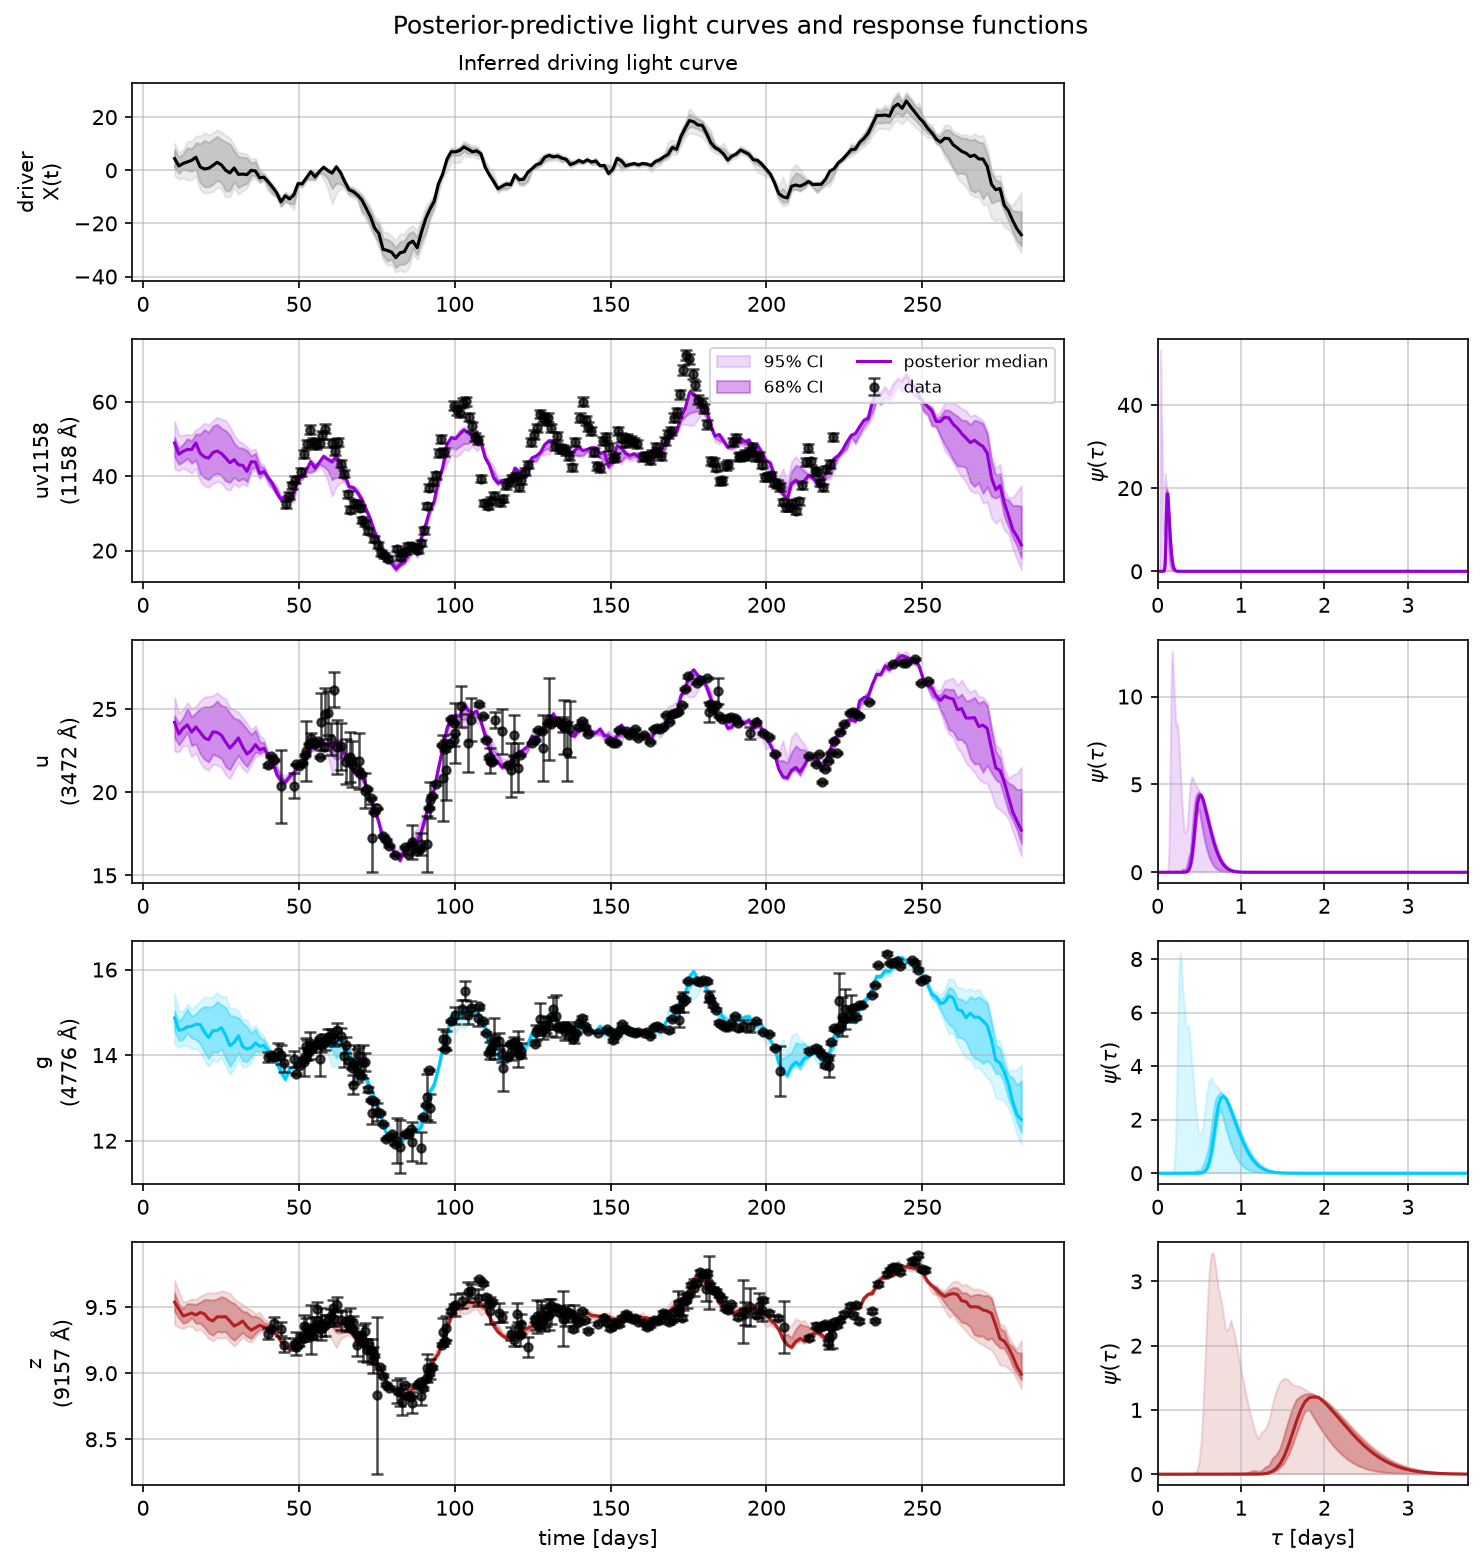
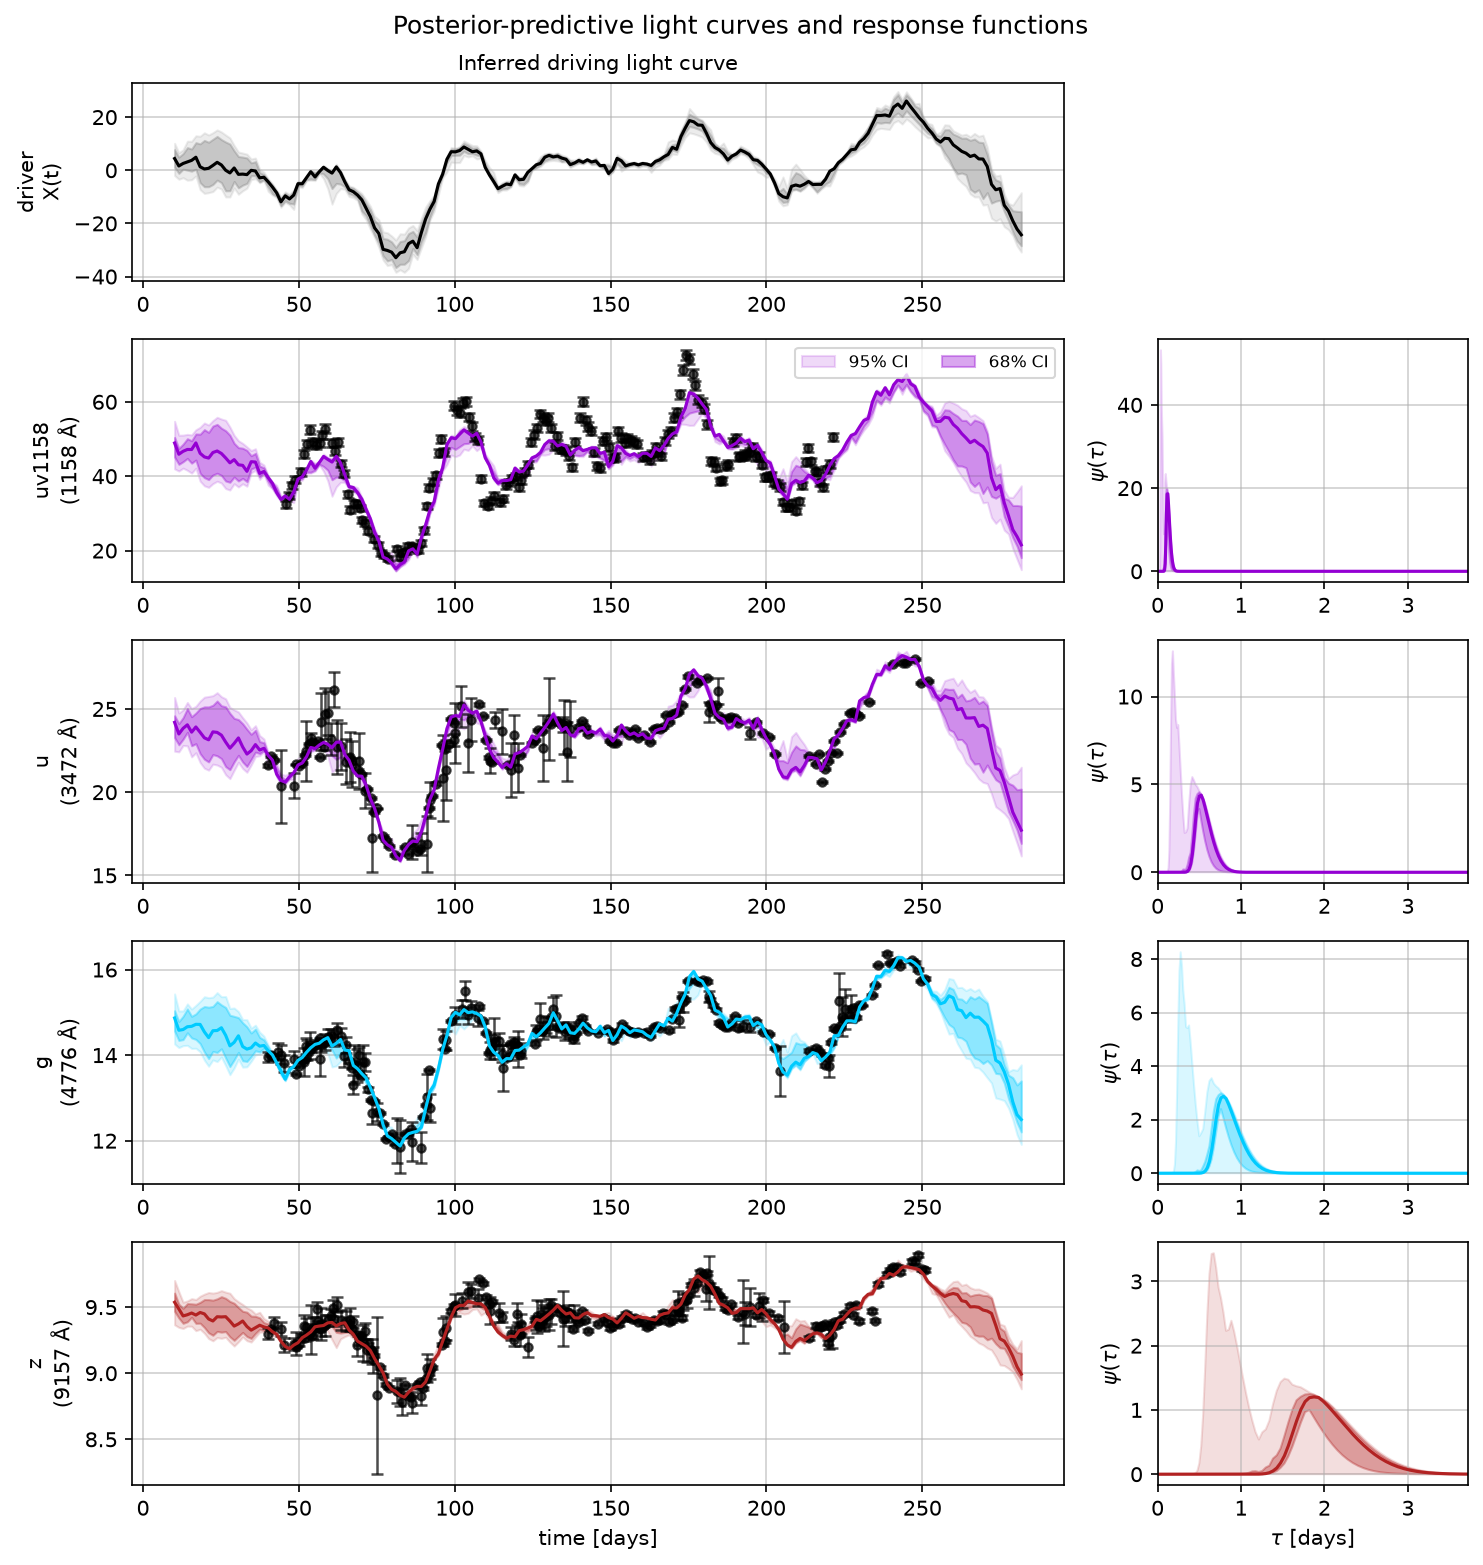
Declutter the light-curve legend, fix fit-line z-order, and overlay effective error bars
Drop the "data" and "posterior median" legend labels from
plot_lightcurve_fits: both are obvious from context, and removing them
leaves the legend showing just the 68%/95% credible-interval swatches
that actually need a key. Also draw the posterior-median line last (on
its own highest z-order) so it renders on top of the observed data
points, not underneath them as before -- previously the errorbar's own
default z-order happened to win since it was the last artist added to
each axis, hiding the fit line behind every marker.

For any band or driver light curve registered with
fit_error_model=True, overlay a second, lighter, wider errorbar on top
of the original one showing the effective error
(sqrt((sigma_scale*yerr)**2 + sigma_jitter**2), evaluated at the
posterior mean of sigma_scale/sigma_jitter) -- so it's visible at a
glance how much the fitted error model has rescaled each point's
quoted uncertainty, without hiding the original error bar underneath.

Regenerated the two smoke_test_output/ report figures affected
(lightcurve_fits.png, report.html); nothing else changed since no
other plot reads these code paths.

diff --git a/ngc5548_smoke_test_output/report.html b/ngc5548_smoke_test_output/report.html
@@ -9,7 +9,7 @@ code { background: #f2f2f2; padding: 1px 4px; }
 </style></head>
 <body>
 <h1>echofit report</h1>
-<p>run: <b>ngc5548_smoke_test</b> &nbsp;|&nbsp; fit wall time: <b>54.3s</b> &nbsp;|&nbsp; divergent transitions: <b>0/30</b></p>
+<p>run: <b>ngc5548_smoke_test</b> &nbsp;|&nbsp; fit wall time: <b>69.3s</b> &nbsp;|&nbsp; divergent transitions: <b>0/30</b></p>
 
 <h2>Posterior summary</h2>
 <table><tr><th>parameter</th><th>posterior mean</th><th>posterior std</th><th>truth</th></tr><tr><td>C_g</td><td>14.38</td><td>0.02629</td><td>&mdash;</td></tr><tr><td>C_u</td><td>23.03</td><td>0.08357</td><td>&mdash;</td></tr><tr><td>C_uv1158</td><td>43.93</td><td>0.2883</td><td>&mdash;</td></tr><tr><td>C_z</td><td>9.384</td><td>0.006222</td><td>&mdash;</td></tr><tr><td>S_g</td><td>0.0769</td><td>0.01062</td><td>&mdash;</td></tr><tr><td>S_u</td><td>0.2148</td><td>0.02894</td><td>&mdash;</td></tr><tr><td>S_uv1158</td><td>0.8965</td><td>0.1321</td><td>&mdash;</td></tr><tr><td>S_z</td><td>0.01753</td><td>0.002323</td><td>&mdash;</td></tr><tr><td>cos_inclination</td><td>0.5943</td><td>0.03355</td><td>&mdash;</td></tr><tr><td>inclination</td><td>53.5</td><td>2.38</td><td>&mdash;</td></tr><tr><td>log_mdot</td><td>0.3791</td><td>0.4051</td><td>&mdash;</td></tr><tr><td>sigma_drw</td><td>0.913</td><td>0.13</td><td>&mdash;</td></tr></table>

diff --git a/smoke_test_output/report.html b/smoke_test_output/report.html
@@ -9,7 +9,7 @@ code { background: #f2f2f2; padding: 1px 4px; }
 </style></head>
 <body>
 <h1>echofit report</h1>
-<p>fit wall time: <b>43.2s</b> &nbsp;|&nbsp; divergent transitions: <b>0/300</b></p>
+<p>fit wall time: <b>56.3s</b> &nbsp;|&nbsp; divergent transitions: <b>0/300</b></p>
 
 <h2>Posterior summary</h2>
 <table><tr><th>parameter</th><th>posterior mean</th><th>posterior std</th><th>truth</th></tr><tr><td>C_g</td><td>0.1203</td><td>0.01038</td><td>0.1052</td></tr><tr><td>C_i</td><td>-0.3085</td><td>0.006126</td><td>-0.3042</td></tr><tr><td>S_g</td><td>1.081</td><td>0.8348</td><td>1.482</td></tr><tr><td>S_i</td><td>0.645</td><td>0.4964</td><td>0.8782</td></tr><tr><td>cos_inclination</td><td>0.6974</td><td>0.2409</td><td>&mdash;</td></tr><tr><td>inclination</td><td>41.68</td><td>21.12</td><td>35</td></tr><tr><td>log_mdot</td><td>-0.1126</td><td>0.05267</td><td>0</td></tr><tr><td>sigma_drw</td><td>0.127</td><td>0.0913</td><td>0.3</td></tr></table>

diff --git a/echofit/plotting.py b/echofit/plotting.py
@@ -201,6 +201,8 @@ def plot_lightcurve_fits(
     psi_samples: Dict[str, np.ndarray],
     driver_samples: Optional[np.ndarray] = None,
     driver_points: Optional[tuple] = None,
+    driver_sigma_eff: Optional[np.ndarray] = None,
+    sigma_eff_by_band: Optional[Dict[str, np.ndarray]] = None,
     figsize_per_row=(10, 2.2),
     driver_row_height=1.8,
 ):
@@ -233,6 +235,18 @@ def plot_lightcurve_fits(
         units as ``driver_samples`` (i.e. ``(y - C_driver) / S_driver``) so
         it can be overlaid on the driver panel as a direct cross-check that
         the inferred X(t) actually tracks what was observed.
+    driver_sigma_eff : (n_driver_points,) array, optional
+        The driver's own effective error (``sqrt((sigma_scale*yerr)**2 +
+        sigma_jitter**2)``, already back-transformed into the same units as
+        ``driver_points``), drawn as a lighter, wider errorbar overlaid on
+        top of ``driver_points``' own error bars when its light curve was
+        registered with ``fit_error_model=True``.
+    sigma_eff_by_band : dict, optional
+        ``{band_name: array of shape (n_obs,)}`` per-band effective error
+        (same formula as ``driver_sigma_eff``, in the band's own native
+        units), drawn the same way for any band fitted with
+        ``fit_error_model=True``. A band absent from this dict is drawn with
+        only its own quoted ``yerr``.
     """
     ordered, colours = _band_colours(bands)
     n = len(ordered)
@@ -249,16 +263,23 @@ def plot_lightcurve_fits(
     if has_driver:
         ax_drv, ax_drv_unused = axes[0, 0], axes[0, 1]
         lo95, lo68, med, hi68, hi95 = np.percentile(driver_samples, [2.5, 16, 50, 84, 97.5], axis=0)
-        ax_drv.fill_between(t_fine, lo95, hi95, color="0.5", alpha=0.15)
-        ax_drv.fill_between(t_fine, lo68, hi68, color="0.5", alpha=0.35)
-        ax_drv.plot(t_fine, med, color="black", lw=1.5)
+        ax_drv.fill_between(t_fine, lo95, hi95, color="0.5", alpha=0.15, zorder=1)
+        ax_drv.fill_between(t_fine, lo68, hi68, color="0.5", alpha=0.35, zorder=2)
         if driver_points is not None:
             t_d, X_d, yerr_d = driver_points
             ax_drv.errorbar(
                 t_d, X_d, yerr=yerr_d, fmt="o", ms=4, color="C3",
                 ecolor="C3", alpha=0.7, capsize=3, elinewidth=1.2, capthick=1.2,
-                label="driver data (back-transformed)",
+                zorder=3, label="driver data (back-transformed)",
             )
+            if driver_sigma_eff is not None:
+                ax_drv.errorbar(
+                    t_d, X_d, yerr=driver_sigma_eff, fmt="none",
+                    ecolor="C3", alpha=0.35, capsize=3, elinewidth=2.0, capthick=1.2,
+                    zorder=4, label="effective error (fit_error_model)",
+                )
+        ax_drv.plot(t_fine, med, color="black", lw=1.5, zorder=5)
+        if driver_points is not None:
             ax_drv.legend(fontsize=7, loc="upper right")
         ax_drv.set_ylabel("driver\nX(t)")
         ax_drv.set_title("Inferred driving light curve", fontsize=10)
@@ -275,13 +296,20 @@ def plot_lightcurve_fits(
         preds = y_pred_samples[name]
         lo95, lo68, med, hi68, hi95 = np.percentile(preds, [2.5, 16, 50, 84, 97.5], axis=0)
 
-        ax_lc.fill_between(t_fine, lo95, hi95, color=colour, alpha=0.15, label="95% CI")
-        ax_lc.fill_between(t_fine, lo68, hi68, color=colour, alpha=0.35, label="68% CI")
-        ax_lc.plot(t_fine, med, color=colour, lw=1.5, label="posterior median")
+        ax_lc.fill_between(t_fine, lo95, hi95, color=colour, alpha=0.15, label="95% CI", zorder=1)
+        ax_lc.fill_between(t_fine, lo68, hi68, color=colour, alpha=0.35, label="68% CI", zorder=2)
         ax_lc.errorbar(
             d["t"], d["y"], yerr=d["yerr"], fmt="o", ms=4, color="k",
-            ecolor="k", alpha=0.7, capsize=3, elinewidth=1.2, capthick=1.2, label="data",
+            ecolor="k", alpha=0.7, capsize=3, elinewidth=1.2, capthick=1.2, zorder=3,
         )
+        sigma_eff = None if sigma_eff_by_band is None else sigma_eff_by_band.get(name)
+        if sigma_eff is not None:
+            ax_lc.errorbar(
+                d["t"], d["y"], yerr=sigma_eff, fmt="none",
+                ecolor=colour, alpha=0.35, capsize=3, elinewidth=2.0, capthick=1.2,
+                zorder=4, label="effective error (fit_error_model)" if row == 0 else None,
+            )
+        ax_lc.plot(t_fine, med, color=colour, lw=1.5, zorder=5)
         ax_lc.set_ylabel(f"{name}\n({d['wavelength']:.0f} \u00c5)")
         ax_lc.grid(alpha=0.6)
         if row == 0:

diff --git a/echofit/echofit.py b/echofit/echofit.py
@@ -886,6 +886,7 @@ class EchoFit:
         )(S, C)
 
         driver_points = None
+        driver_sigma_eff = None
         if self.driver_data is not None:
             S_driver = float(np.mean(self.samples["S_driver"][idx]))
             C_driver = float(np.mean(self.samples["C_driver"][idx]))
@@ -894,9 +895,28 @@ class EchoFit:
                 (self.driver_data["y"] - C_driver) / S_driver,
                 self.driver_data["yerr"] / abs(S_driver),
             )
+            if self.driver_data.get("fit_error_model", False):
+                sigma_scale_driver = float(np.mean(self.samples["sigma_scale_driver"][idx]))
+                sigma_jitter_driver = float(np.mean(self.samples["sigma_jitter_driver"][idx]))
+                sigma_eff_driver = np.sqrt(
+                    (sigma_scale_driver * self.driver_data["yerr"]) ** 2 + sigma_jitter_driver ** 2
+                )
+                driver_sigma_eff = sigma_eff_driver / abs(S_driver)
+
+        # Effective error bars (sigma_scale/sigma_jitter, decision #18) are only
+        # meaningful for a band actually fitted with fit_error_model=True.
+        sigma_eff_by_band = {}
+        for name, d in self.bands.items():
+            if not d.get("fit_error_model", False):
+                continue
+            sigma_scale = float(np.mean(self.samples[f"sigma_scale_{name}"][idx]))
+            sigma_jitter = float(np.mean(self.samples[f"sigma_jitter_{name}"][idx]))
+            sigma_eff_by_band[name] = np.sqrt((sigma_scale * d["yerr"]) ** 2 + sigma_jitter ** 2)
 
         return plotting.plot_lightcurve_fits(
             self.bands, np.asarray(t_fine), y_pred_samples,
             np.asarray(self.tau_grid), psi_samples,
-            driver_samples=np.asarray(driver_samples), driver_points=driver_points, **kwargs,
+            driver_samples=np.asarray(driver_samples), driver_points=driver_points,
+            driver_sigma_eff=driver_sigma_eff, sigma_eff_by_band=sigma_eff_by_band or None,
+            **kwargs,
         )
